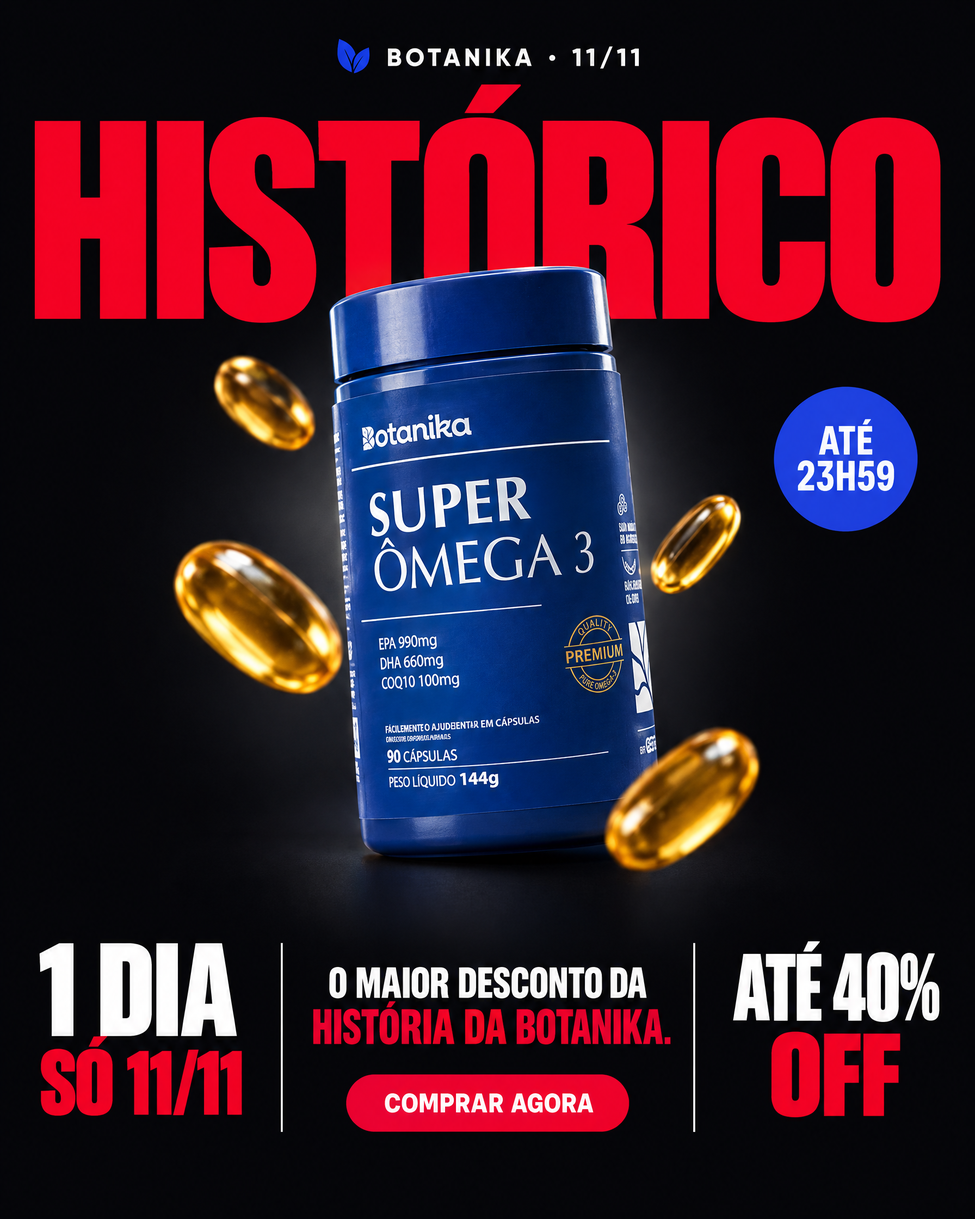
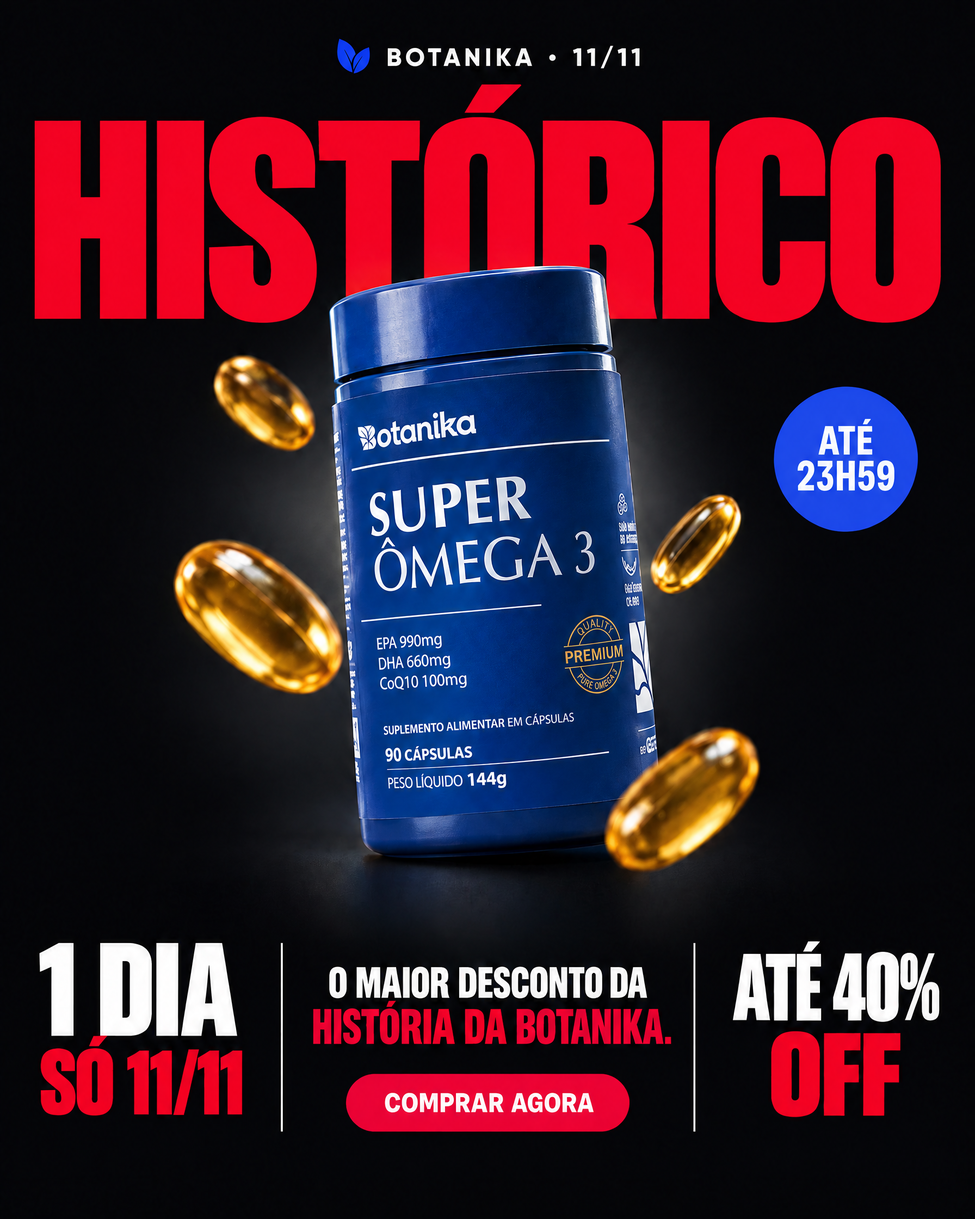
11/11: V10 refeita e 10 estáticos aprovados
Claude-Session: https://claude.ai/code/session_01MWYgjJ38HScF71ZkjsPHNE

diff --git a/novembro-pedro/entregas/11-11-venda-estaticos-copies.md b/novembro-pedro/entregas/11-11-venda-estaticos-copies.md
@@ -48,4 +48,4 @@ Botão em todas: **Comprar agora**
 | V9 | prova social | **4,8★** · Os favoritos de quem já usa | Hair + Whey (pote) | 84385999-6440-4071-95c0-54142a86c482 |
 | V10 | histórico | **HISTÓRICO** · O maior desconto da história da Botanika | Ômega | 84b7547c-753d-42ce-86b3-29d8a54c0363 |
 
-Observação: no V10, o texto miúdo do rótulo do Ômega saiu com erro ("Fácilmente o ajudentar em cápsulas"). Só dá para ver com zoom. Refazer se o Pedro pedir.
+**V10 refeita em 04/11** (job 5388f8d4-79f9-4c2f-8074-411411cc752a). O rótulo foi corrigido: "SUPLEMENTO ALIMENTAR EM CÁPSULAS · 90 CÁPSULAS · PESO LÍQUIDO 144g". A versão antiga está em `descartadas/`. **V1–V10 aprovadas pelo Pedro em 04/11.**

diff --git a/novembro-pedro/DIARIO.md b/novembro-pedro/DIARIO.md
@@ -424,3 +424,11 @@
   - (b) app de regra de checkout;
   - (c) cupom deixar de somar com o Esquenta.
   - Isso vai para a decisão do Vitor.
+
+### 04/11 · 10 estáticos de venda do 11/11
+- V1 a V10 já existiam (30/10 e 01/11). O Pedro aprovou todas em 04/11.
+- **V10 refeita** com o rótulo do Ômega corrigido (job 5388f8d4). A versão antiga foi para `descartadas/`.
+- Zip das 10 + texto do anúncio enviado ao Pedro.
+  - O upload direto pro Drive não dá daqui: são ~35 MB de imagem e o conector só aceita o arquivo dentro da mensagem.
+  - Pasta sugerida: Drive › 2026-11 · Novembro › 03. Dia 11-11 › 01. Comunicação & Criativos.
+- Prazo para o Otávio: sex 06/11 às 12h.
